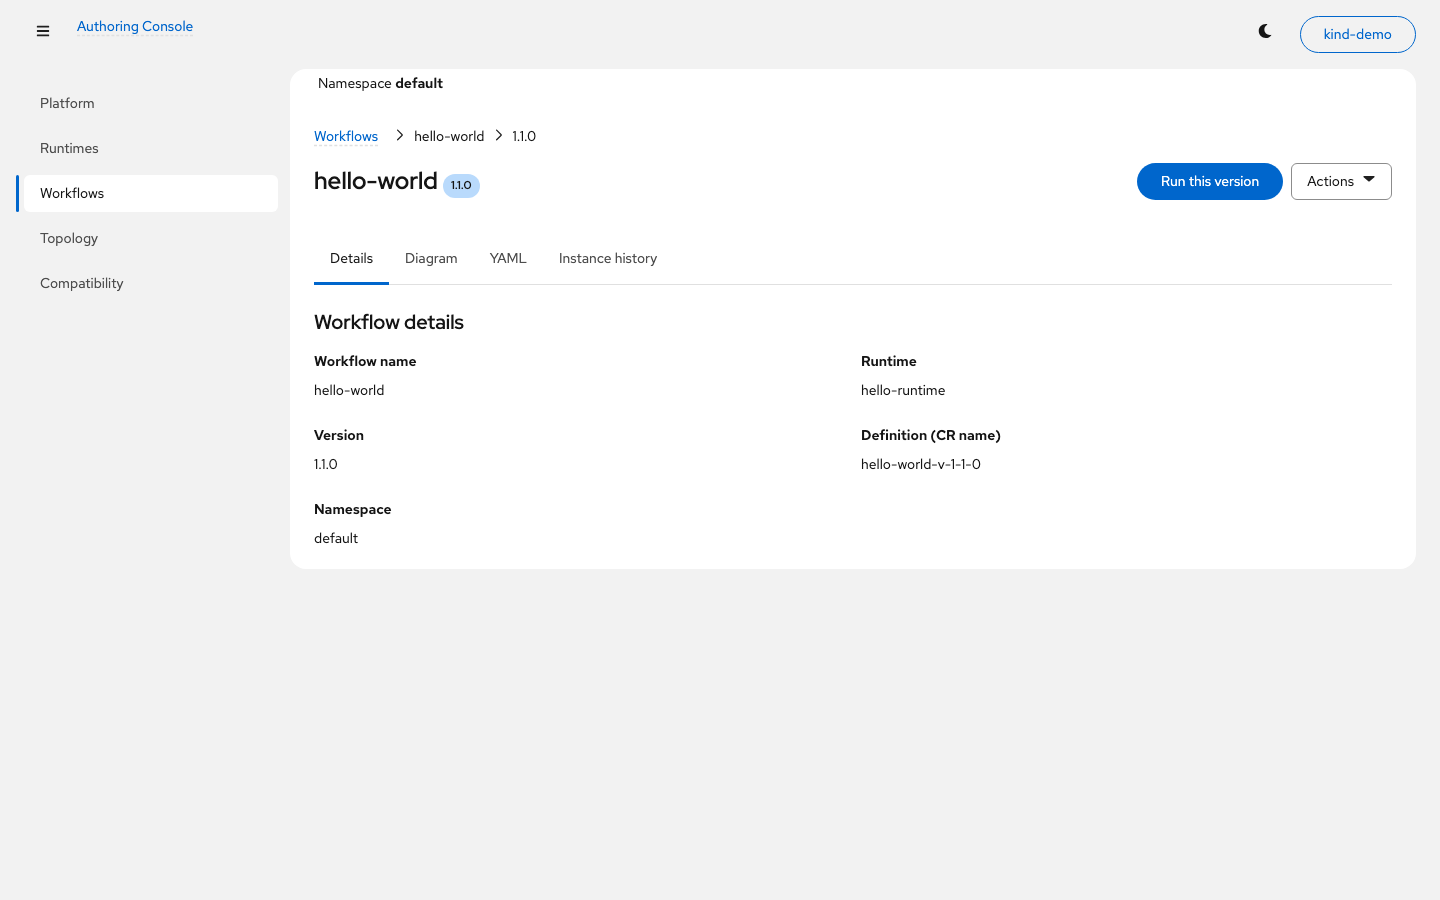
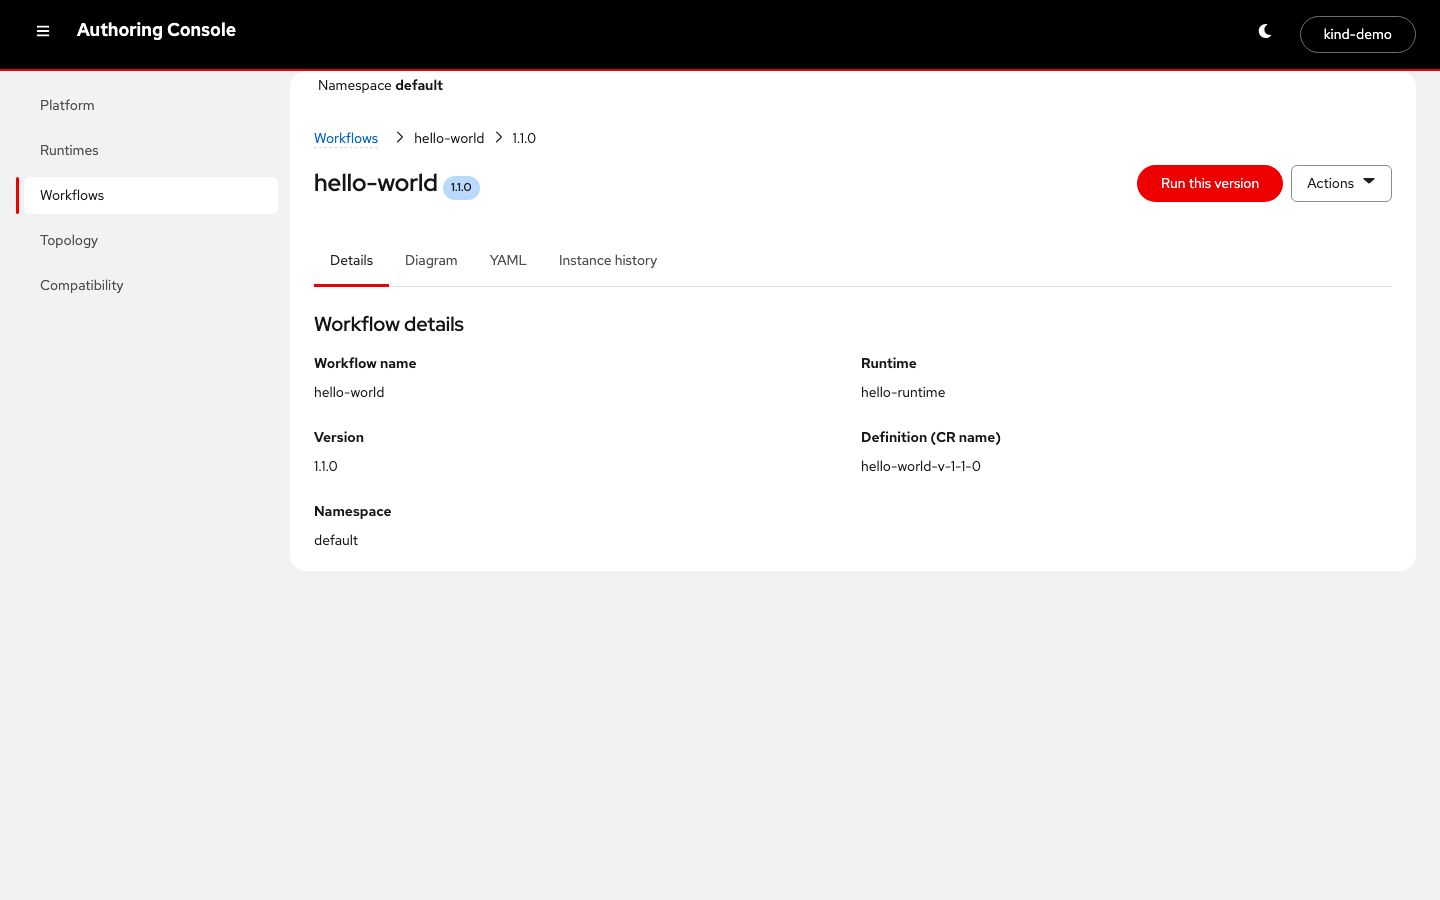
Brand the console masthead and workflow actions in red and black

diff --git a/authoring-console/src/app/shell/AppShell.tsx b/authoring-console/src/app/shell/AppShell.tsx
@@ -28,6 +28,7 @@ import {
   ToolbarGroup,
   ToolbarItem,
 } from "@patternfly/react-core";
+import "./console-brand.css";
 import BarsIcon from "@patternfly/react-icons/dist/esm/icons/bars-icon";
 import MoonIcon from "@patternfly/react-icons/dist/esm/icons/moon-icon";
 import SunIcon from "@patternfly/react-icons/dist/esm/icons/sun-icon";
@@ -58,7 +59,7 @@ export const AppShell = ({ children }: { readonly children: ReactNode }): ReactN
   const contextLabel = session.context.contextName || "Disconnected";
 
   const masthead = (
-    <Masthead>
+    <Masthead className="console-masthead pf-v6-theme-dark">
       <MastheadMain>
         <MastheadToggle>
           <PageToggleButton variant="plain" aria-label="Global navigation" id="nav-toggle">
@@ -66,13 +67,13 @@ export const AppShell = ({ children }: { readonly children: ReactNode }): ReactN
           </PageToggleButton>
         </MastheadToggle>
         <MastheadBrand>
-          <MastheadLogo component="a" href="#/workflows">
+          <MastheadLogo className="console-product-name" component="a" href="#/workflows">
             Authoring Console
           </MastheadLogo>
         </MastheadBrand>
       </MastheadMain>
       <MastheadContent>
-        <Toolbar isFullHeight isStatic>
+        <Toolbar isFullHeight isStatic colorVariant="no-background">
           <ToolbarContent>
             <ToolbarGroup align={{ default: "alignEnd" }}>
               <ToolbarItem>
@@ -98,7 +99,7 @@ export const AppShell = ({ children }: { readonly children: ReactNode }): ReactN
   const sidebar = (
     <PageSidebar>
       <PageSidebarBody>
-        <Nav aria-label="Primary navigation">
+        <Nav className="console-navigation" aria-label="Primary navigation">
           <NavList>
             {PRIMARY_NAV.map((entry) => (
               <NavItem

diff --git a/authoring-console/src/app/shell/console-brand.css b/authoring-console/src/app/shell/console-brand.css
@@ -1,0 +1,37 @@
+.pf-v6-c-masthead.console-masthead {
+  --pf-v6-c-masthead--BackgroundColor: var(--pf-t--color--black);
+  --pf-t--global--text--color--brand--default: var(--pf-t--color--white);
+  --pf-t--global--text--color--brand--hover: var(--pf-t--color--white);
+  --pf-t--global--border--color--brand--default: var(--pf-t--color--gray--50);
+  --pf-t--global--border--color--brand--hover: var(--pf-t--color--white);
+  --pf-t--global--icon--color--regular: var(--pf-t--color--white);
+  --pf-t--global--text--color--regular: var(--pf-t--color--white);
+  --pf-t--global--background--color--action--plain--hover: var(--pf-t--color--gray--90);
+  --pf-t--global--background--color--action--plain--clicked: var(--pf-t--color--gray--90);
+  border-block-end: 2px solid var(--pf-t--color--red--50);
+}
+
+.console-masthead .console-product-name {
+  color: var(--pf-t--color--white);
+  font-size: var(--pf-t--global--font--size--heading--h3);
+  font-weight: var(--pf-t--global--font--weight--heading--bold);
+  text-decoration: none;
+  width: auto;
+}
+
+.console-navigation.pf-v6-c-nav {
+  --pf-v6-c-nav__item--accent--color: var(--pf-t--color--red--50);
+}
+
+.console-resource-tabs.pf-v6-c-tabs {
+  --pf-v6-c-tabs__item--m-current__link--after--BorderColor: var(--pf-t--color--red--50);
+}
+
+.console-primary-action.pf-m-primary {
+  --pf-v6-c-button--m-primary--BackgroundColor: var(--pf-t--color--red--50);
+  --pf-v6-c-button--m-primary--hover--BackgroundColor: var(--pf-t--color--red--60);
+  --pf-v6-c-button--m-primary--m-clicked--BackgroundColor: var(--pf-t--color--red--70);
+  --pf-v6-c-button--m-primary--Color: var(--pf-t--color--white);
+  --pf-v6-c-button--m-primary--hover--Color: var(--pf-t--color--white);
+  --pf-v6-c-button--m-primary--m-clicked--Color: var(--pf-t--color--white);
+}

diff --git a/authoring-console/e2e/workflow-design.spec.ts b/authoring-console/e2e/workflow-design.spec.ts
@@ -19,11 +19,12 @@ test("review the workflow resource list and version details", async ({ page }) =
   await page.getByRole("row").filter({ hasText: "hello-world" }).getByRole("button").click();
   const version = page.getByRole("button", { name: "1.1.0" });
   await expect(version).toBeVisible();
-  if (process.env.DESIGN_CAPTURE === "after") await page.screenshot({ path: `docs/design/workflows-after.png` });
+  if (process.env.DESIGN_CAPTURE === "after") await page.screenshot({ animations: "disabled", path: `docs/design/workflows-after.png` });
   await version.click();
   await expect(page.getByTestId("cr-name")).toContainText("hello-world-v-1-1-0");
-  if (process.env.DESIGN_CAPTURE === "after") await page.screenshot({ path: `docs/design/version-after.png` });
+  if (process.env.DESIGN_CAPTURE === "after") await page.screenshot({ animations: "disabled", path: `docs/design/version-after.png` });
   await page.getByRole("button", { name: "Switch to dark theme" }).click();
+  if (process.env.DESIGN_CAPTURE === "after") await page.screenshot({ animations: "disabled", path: "docs/design/version-dark.png" });
   await page.setViewportSize({ width: 390, height: 844 });
   await expect(page.getByRole("heading", { name: "Workflow details" })).toBeVisible();
   await expect(page.getByRole("button", { name: "Run this version" })).toBeInViewport();

diff --git a/authoring-console/src/app/pages/WorkflowVersionPage.tsx b/authoring-console/src/app/pages/WorkflowVersionPage.tsx
@@ -128,7 +128,7 @@ export const WorkflowVersionPage = (): ReactNode => {
               </Title>
             </div>
             <Flex spaceItems={{ default: "spaceItemsSm" }}>
-              <Button variant="primary" onClick={handleRunWorkflow}>
+              <Button variant="primary" className="console-primary-action" onClick={handleRunWorkflow}>
                 Run this version
               </Button>
               <Dropdown
@@ -157,7 +157,7 @@ export const WorkflowVersionPage = (): ReactNode => {
         </Stack>
       </PageSection>
       <PageSection>
-        <Tabs activeKey={activeTab} onSelect={(_event, key) => setActiveTab(String(key))}>
+        <Tabs className="console-resource-tabs" activeKey={activeTab} onSelect={(_event, key) => setActiveTab(String(key))}>
           <Tab eventKey="details" title={<TabTitleText>Details</TabTitleText>}>
             <Stack hasGutter style={{ paddingBlockStart: "var(--pf-t--global--spacer--lg)" }}>
               <StackItem><Title headingLevel="h2" size="xl">Workflow details</Title></StackItem>

diff --git a/authoring-console/src/app/pages/WorkflowsPage.tsx b/authoring-console/src/app/pages/WorkflowsPage.tsx
@@ -54,7 +54,7 @@ export const WorkflowsPage = (): ReactNode => {
       <PageSection isFilled={false}>
         <Flex alignItems={{ default: "alignItemsCenter" }} justifyContent={{ default: "justifyContentSpaceBetween" }}>
           <Title headingLevel="h1">Workflows</Title>
-          <Button variant="primary" onClick={() => navigate("/authoring")}>Create workflow</Button>
+          <Button variant="primary" className="console-primary-action" onClick={() => navigate("/authoring")}>Create workflow</Button>
         </Flex>
       </PageSection>
       <PageSection>

diff --git a/authoring-console/DESIGN.md b/authoring-console/DESIGN.md
@@ -13,6 +13,10 @@ These captures show our fixture-backed console at 1440 × 900. Review the expand
 | Workflows | [Before](docs/design/workflows-before.png) | [After](docs/design/workflows-after.png) |
 | Workflow version | [Before](docs/design/version-before.png) | [After](docs/design/version-after.png) |
 
+### Brand palette
+
+Use a black masthead with white product text in both themes. Red Hat red (`#ee0000`) marks the masthead edge, the active navigation item, the workflow detail tab, and the primary Create workflow and Run this version actions. Use the darker PatternFly reds for button hover and pressed states. Keep links and operational status indicators in their PatternFly semantic colors. [Dark theme preview](docs/design/version-dark.png)
+
 ## The shell
 
 Use one navigation tree for administrators and workflow authors. OpenShift’s unified navigation, resource lists, detail tabs and project selector are the conventions to carry over. Use **Namespace** throughout this console so the same instructions work on every cluster. The application owns its name and navigation. An embedded Operational Console view takes its surrounding shell from its host.
